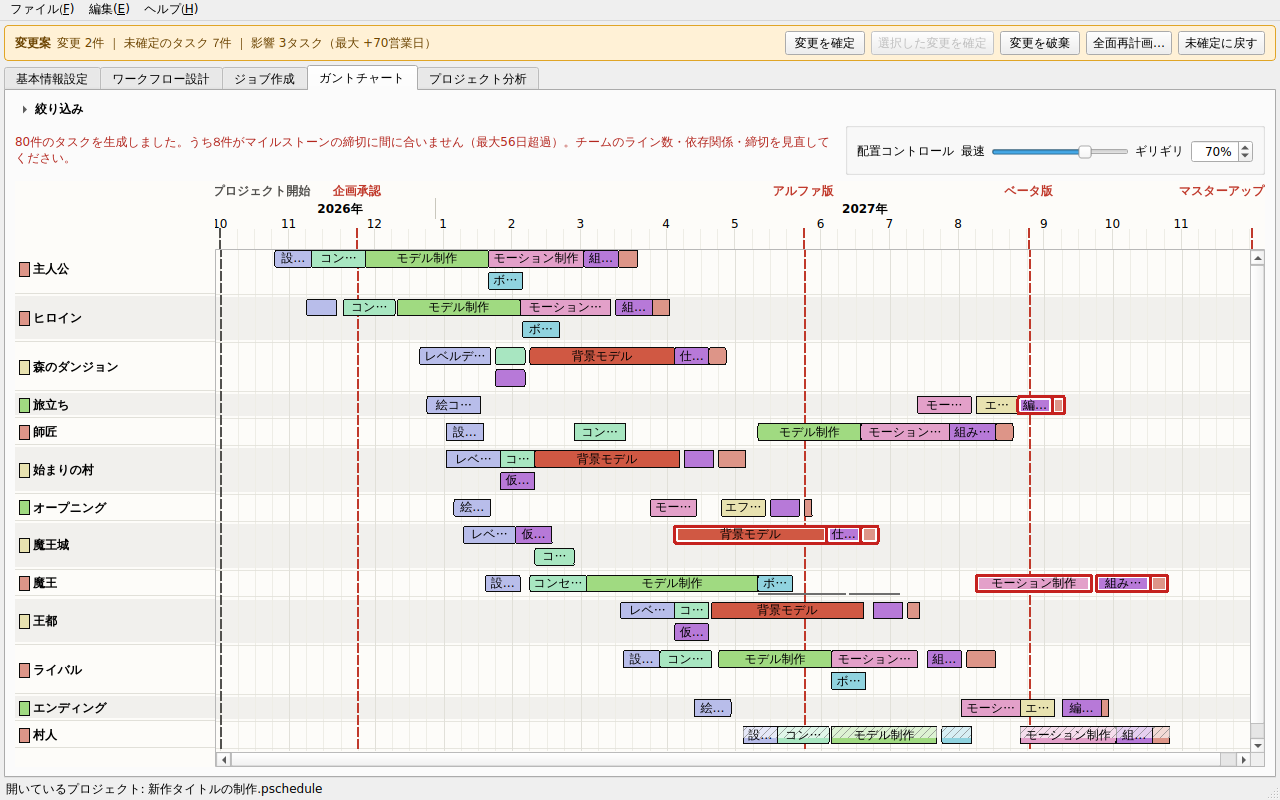
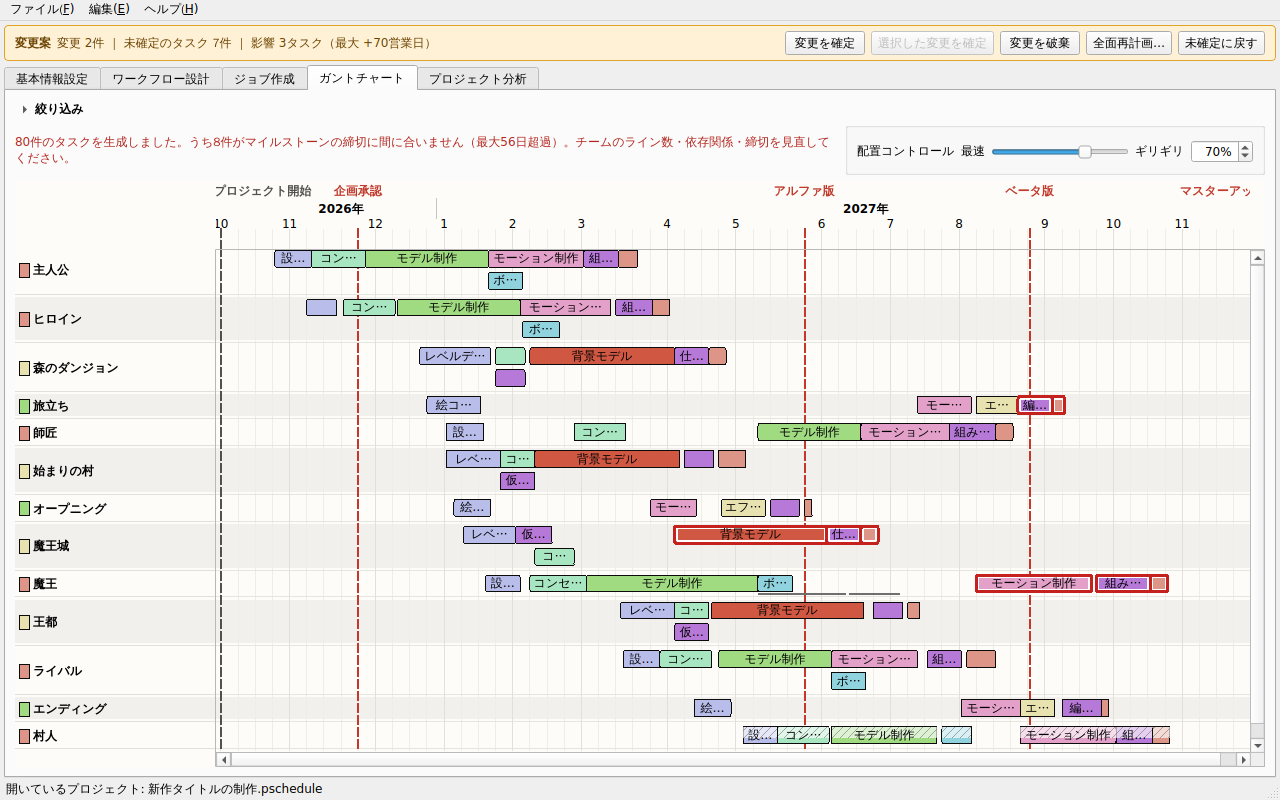
chore: バージョンを 1.0.1 に上げ、上げ方のルールを決める。ガイドの画像を撮り直す
- ガントチャートの見出しのずれの修正に合わせて、APP_VERSION を 1.0.1 にした。
- CLAUDE.md と docs/packaging.md に、アプリに手を入れたらパッチを必ず上げる
  （1つのPRにつき1回）、大きめの変更ではマイナーを上げるか利用者に確認する、
  というルールを書いた。
- 利用者ガイドの画像を撮り直した（バージョン情報の 1.0.1、見出しと本体の線が
  そろったガントチャート）。

Claude-Session: https://claude.ai/code/session_012h8HJR22sGEB7n6794ZBWj

diff --git a/app_version.py b/app_version.py
@@ -9,7 +9,7 @@
 番号は「メジャー.マイナー.パッチ」の3つの数字で書く。
 """
 
-APP_VERSION = "1.0.0"
+APP_VERSION = "1.0.1"
 
 
 def windows_version_tuple(version=APP_VERSION):

diff --git a/CLAUDE.md b/CLAUDE.md
@@ -5,6 +5,14 @@
 - 作業の途中経過は日本語で報告すること。
 - 画面（GUI）に関係する実装を行った場合は、その画面のスクリーンショットを共有すること。
 
+## バージョン（`app_version.py`、`docs/packaging.md`「バージョン」）
+
+- アプリに手を入れる変更（不具合の修正・機能の追加や変更・画面や文言の変更）をしたら、
+  **必ずパッチ（末尾の数字）を1つ上げる**（`APP_VERSION` を変えるだけ。1つのPRにつき1回）。
+  ドキュメント・テスト・ビルドの設定だけの変更では上げない。
+- 少し大きめの変更（新しい機能・タブの追加、使い方が変わる変更など）のときは、
+  **マイナー（真ん中の数字）を上げるかどうかを利用者に確認する**。上げたらパッチは0に戻す。
+
 ## 多言語対応（`i18n.py`、`docs/roadmap.md` §11）
 
 - 画面・メッセージ・Undoのラベル・出力ファイルの文言（ログは除く）は、原文（日本語）を

diff --git a/docs/packaging.md b/docs/packaging.md
@@ -107,3 +107,11 @@ spec はビルド時にここから `build/version_info.txt` を生成して `EX
 画面の「ヘルプ」→「バージョン情報」と、利用者ガイドの表紙（`scripts/user_guide/build_pdf.py`）も
 同じ定義を読むので、バージョンを上げるときは `app_version.py` だけを変える。
 
+番号の上げ方（「メジャー.マイナー.パッチ」）:
+
+- **パッチ（末尾）**: アプリに手を入れる変更（不具合の修正・機能の追加や変更・画面や文言の変更）の
+  たびに1つ上げる。1つのPRにつき1回で、そのPRの中で上げる。ドキュメント・テスト・ビルドの設定
+  だけの変更では上げない。
+- **マイナー（真ん中）**: 少し大きめの変更（新しい機能・タブの追加、使い方が変わる変更など）の
+  ときは、上げるかどうかを利用者に確認してから決める。上げたときはパッチを0に戻す。
+
